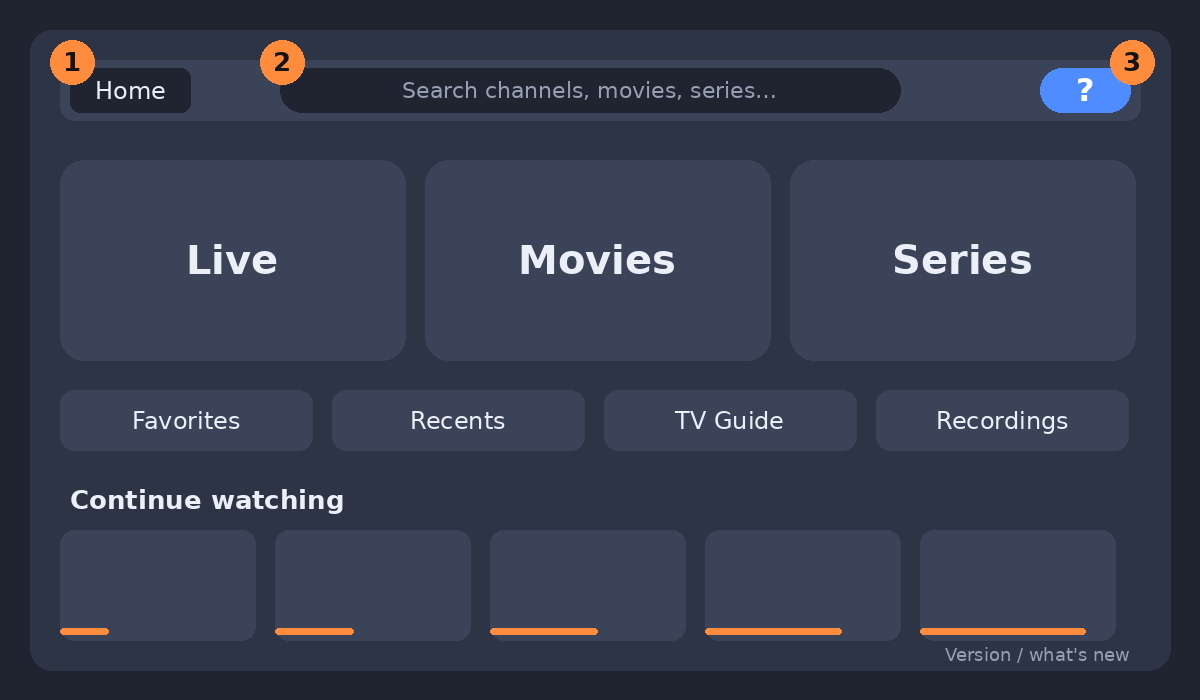
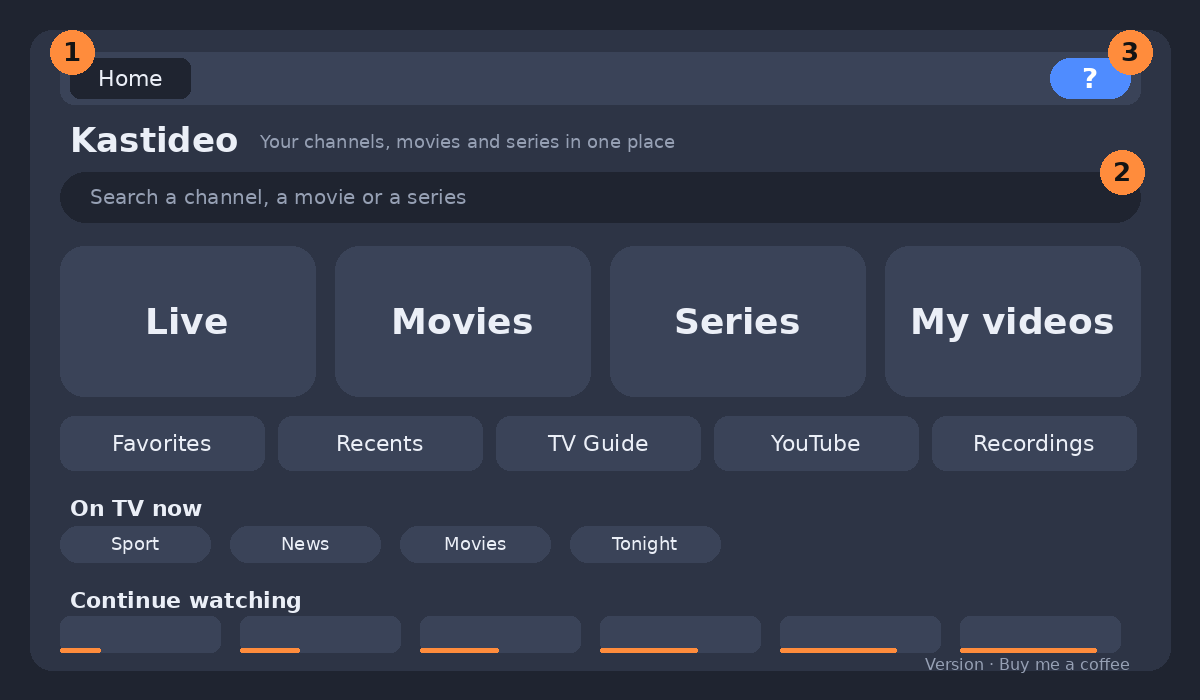
1.9.1 - Aide : l'écran d'accueil est décrit tel qu'il est livré (Mac, Windows, Linux, Android), nouveaux schémas

diff --git a/desktop/lib/core/media_servers.dart b/desktop/lib/core/media_servers.dart
@@ -12,7 +12,7 @@ enum PlaybackEvent { start, progress, pause, stop }
 /// Identité de Kastideo auprès des serveurs (même appareil d'un lancement à l'autre).
 class KastideoDevice {
   KastideoDevice._();
-  static String version = '1.9.0';
+  static String version = '1.9.1';
 
   /// Nom de l'ordinateur, réduit aux caractères ASCII : un accent ou une apostrophe typographique dans un en-tête HTTP
   /// fait répondre « 400 Bad Request » à certains serveurs.

diff --git a/desktop/assets/help/aide-fr.md b/desktop/assets/help/aide-fr.md
@@ -4,11 +4,21 @@
 
 Kastideo réunit en une seule interface vos **chaînes en direct, films et séries IPTV**, vos **vidéos personnelles** (disque, clé USB, NAS, Jellyfin, Emby, Plex) et **YouTube**. Kastideo ne fournit **aucun contenu** : vous ajoutez vos propres sources.
 
+<!--mac-->
 ![L'écran d'accueil](img:home)
 
 1. Retour à l'accueil, de n'importe où.
 2. Recherche unique dans les chaînes, films et séries.
 3. Bouton **?** : l'aide, ouverte à la page de l'écran où vous êtes.
+<!--/mac-->
+<!--pc-->
+![L'écran d'accueil](img:homepc)
+
+1. Bouton **?** : l'aide, ouverte à la page de l'écran où vous êtes.
+2. **Journal de lecture** : l'outil de diagnostic.
+3. **Réglages** : sources, apparence, enregistrements…
+4. Recherche unique dans les chaînes, films et séries, puis les pavés et accès rapides ([détail de l'accueil](help:accueil)).
+<!--/pc-->
 
 ### Démarrage rapide
 
@@ -212,21 +222,40 @@ Réglages > **Sources** : **modifier** une source (bouton crayon : nom, serveur,
 
 ## L'écran d'accueil {#accueil}
 
+<!--mac-->
 ![L'écran d'accueil](img:home)
 
-<!--mac-->
-Kastideo s'ouvre sur l'**accueil** : trois grands pavés **Direct**, **Films** et **Séries**, puis des boutons plus petits vers les **Favoris**, les **Récents**, le **Guide TV** et les **Enregistrements**.
+Kastideo s'ouvre sur l'**accueil**, de haut en bas :
 
-- Le champ de **recherche** en haut cherche d'un coup dans les chaînes, les films et les séries ; un clic sur un résultat l'ouvre.
-- La rangée **Reprendre la lecture** liste les films et épisodes entamés ; un clic reprend là où vous vous étiez arrêté.
-- Si une lecture est en cours, un bandeau permet d'y **retourner** ou de l'**arrêter**.
-- Pour revenir à l'accueil à tout moment : bouton **Accueil** (maison) en haut à gauche de la barre d'outils, **⌘0**, ligne **Accueil** de la barre latérale, ou touche **H** en interface TV.
+- le **champ de recherche**, qui cherche d'un coup dans les chaînes, les films et les séries ; un clic sur un résultat l'ouvre ;
+- les grands pavés **Direct**, **Films** et **Séries**, et **Mes vidéos** dès qu'une source [Dossiers, Jellyfin, Emby ou Plex](help:mes-videos) existe ; chaque pavé indique le nombre de chaînes, films, séries ou vidéos ;
+- les boutons **Favoris**, **Récents**, **Guide TV**, **YouTube** et **Enregistrements** (un badge indique le nombre d'éléments, ou les enregistrements et téléchargements en attente) ;
+- la rangée **À la télé maintenant** : pastilles par thème (Sport, Info, Films…) et **Ce soir**, qui ouvrent le [direct par thème](help:direct-theme) ;
+- la rangée **Reprendre la lecture** : films et épisodes entamés, un clic reprend là où vous vous étiez arrêté ;
+- si une lecture est en cours, un bandeau **En cours de lecture** permet d'y **retourner** ou de l'**arrêter**.
 
-Le **numéro de version** de Kastideo est affiché discrètement en bas à droite de l'accueil ; un clic ouvre les nouveautés de la version.
+Pour revenir à l'accueil à tout moment : bouton **Accueil** (maison) en haut à gauche de la barre d'outils, **⌘0**, ligne **Accueil** de la barre latérale, ou touche **H** en interface TV.
+
+Le **numéro de version** est affiché discrètement en bas à droite, avec le bouton **?** et le bouton **Offrir un café** ; un clic sur la version ouvre les nouveautés.
 <!--/mac-->
-
 <!--pc-->
-Recherche globale (chaînes, films, séries), pavés **Direct**, **Films** et **Séries**, accès rapides **Favoris**, **Récents**, **Guide TV**, **MultiVue** et **Enregistrements**, rangée **Reprendre la lecture**.
+![L'écran d'accueil](img:homepc)
+
+Kastideo s'ouvre sur l'**accueil**, de haut en bas :
+
+- l'**en-tête** : logo, nom et, à droite, trois boutons : **Aide** (**F1**), **Journal de lecture** et **Réglages** (**Ctrl+,**) ; un petit cercle tourne pendant l'actualisation des sources ;
+- le **champ de recherche**, qui cherche d'un coup dans les chaînes, les films et les séries ; un clic sur un résultat l'ouvre ;
+- les grands pavés **Direct**, **Films** et **Séries**, et **Mes vidéos** dès qu'une source [Dossiers, Jellyfin, Emby ou Plex](help:mes-videos) existe ; chaque pavé indique le nombre de chaînes, films, séries ou vidéos ;
+- les boutons **Favoris**, **Récents**, **Guide TV**, **MultiVue**, **YouTube** et **Enregistrements** (un badge indique le nombre d'éléments, de chaînes dans la MultiVue, ou d'enregistrements et téléchargements en attente) ;
+- la rangée **Reprendre la lecture** : films et épisodes entamés, un clic reprend là où vous vous étiez arrêté ;
+- si une lecture est en cours, un bandeau **En cours de lecture** permet d'y **retourner** ou de l'**arrêter** ;
+- si aucune source n'est ajoutée, une carte **Aucune source** propose **Ajouter une source**.
+
+En bas à droite : le bouton **Offrir un café** (masquable dans Réglages > À propos) et le numéro de version.
+
+Pour revenir à l'accueil à tout moment : ligne **Accueil** de la barre latérale, **Ctrl+0**, ou touche **H** en interface TV.
+
+**Sur téléphone et tablette Android**, l'accueil s'adapte à la largeur de l'écran : en dessous d'environ 720 px (téléphone, ou tablette en portrait), les quatre pavés passent sur **deux colonnes** et l'en-tête se réduit. **Sur Android TV**, les boutons se choisissent à la télécommande (liseré visible) et **OK** ouvre.
 <!--/pc-->
 
 ## Mes vidéos {#mes-videos}

diff --git a/docs/help/aide-fr.md b/docs/help/aide-fr.md
@@ -4,11 +4,21 @@
 
 Kastideo réunit en une seule interface vos **chaînes en direct, films et séries IPTV**, vos **vidéos personnelles** (disque, clé USB, NAS, Jellyfin, Emby, Plex) et **YouTube**. Kastideo ne fournit **aucun contenu** : vous ajoutez vos propres sources.
 
+<!--mac-->
 ![L'écran d'accueil](img:home)
 
 1. Retour à l'accueil, de n'importe où.
 2. Recherche unique dans les chaînes, films et séries.
 3. Bouton **?** : l'aide, ouverte à la page de l'écran où vous êtes.
+<!--/mac-->
+<!--pc-->
+![L'écran d'accueil](img:homepc)
+
+1. Bouton **?** : l'aide, ouverte à la page de l'écran où vous êtes.
+2. **Journal de lecture** : l'outil de diagnostic.
+3. **Réglages** : sources, apparence, enregistrements…
+4. Recherche unique dans les chaînes, films et séries, puis les pavés et accès rapides ([détail de l'accueil](help:accueil)).
+<!--/pc-->
 
 ### Démarrage rapide
 
@@ -212,21 +222,40 @@ Réglages > **Sources** : **modifier** une source (bouton crayon : nom, serveur,
 
 ## L'écran d'accueil {#accueil}
 
+<!--mac-->
 ![L'écran d'accueil](img:home)
 
-<!--mac-->
-Kastideo s'ouvre sur l'**accueil** : trois grands pavés **Direct**, **Films** et **Séries**, puis des boutons plus petits vers les **Favoris**, les **Récents**, le **Guide TV** et les **Enregistrements**.
+Kastideo s'ouvre sur l'**accueil**, de haut en bas :
 
-- Le champ de **recherche** en haut cherche d'un coup dans les chaînes, les films et les séries ; un clic sur un résultat l'ouvre.
-- La rangée **Reprendre la lecture** liste les films et épisodes entamés ; un clic reprend là où vous vous étiez arrêté.
-- Si une lecture est en cours, un bandeau permet d'y **retourner** ou de l'**arrêter**.
-- Pour revenir à l'accueil à tout moment : bouton **Accueil** (maison) en haut à gauche de la barre d'outils, **⌘0**, ligne **Accueil** de la barre latérale, ou touche **H** en interface TV.
+- le **champ de recherche**, qui cherche d'un coup dans les chaînes, les films et les séries ; un clic sur un résultat l'ouvre ;
+- les grands pavés **Direct**, **Films** et **Séries**, et **Mes vidéos** dès qu'une source [Dossiers, Jellyfin, Emby ou Plex](help:mes-videos) existe ; chaque pavé indique le nombre de chaînes, films, séries ou vidéos ;
+- les boutons **Favoris**, **Récents**, **Guide TV**, **YouTube** et **Enregistrements** (un badge indique le nombre d'éléments, ou les enregistrements et téléchargements en attente) ;
+- la rangée **À la télé maintenant** : pastilles par thème (Sport, Info, Films…) et **Ce soir**, qui ouvrent le [direct par thème](help:direct-theme) ;
+- la rangée **Reprendre la lecture** : films et épisodes entamés, un clic reprend là où vous vous étiez arrêté ;
+- si une lecture est en cours, un bandeau **En cours de lecture** permet d'y **retourner** ou de l'**arrêter**.
 
-Le **numéro de version** de Kastideo est affiché discrètement en bas à droite de l'accueil ; un clic ouvre les nouveautés de la version.
+Pour revenir à l'accueil à tout moment : bouton **Accueil** (maison) en haut à gauche de la barre d'outils, **⌘0**, ligne **Accueil** de la barre latérale, ou touche **H** en interface TV.
+
+Le **numéro de version** est affiché discrètement en bas à droite, avec le bouton **?** et le bouton **Offrir un café** ; un clic sur la version ouvre les nouveautés.
 <!--/mac-->
-
 <!--pc-->
-Recherche globale (chaînes, films, séries), pavés **Direct**, **Films** et **Séries**, accès rapides **Favoris**, **Récents**, **Guide TV**, **MultiVue** et **Enregistrements**, rangée **Reprendre la lecture**.
+![L'écran d'accueil](img:homepc)
+
+Kastideo s'ouvre sur l'**accueil**, de haut en bas :
+
+- l'**en-tête** : logo, nom et, à droite, trois boutons : **Aide** (**F1**), **Journal de lecture** et **Réglages** (**Ctrl+,**) ; un petit cercle tourne pendant l'actualisation des sources ;
+- le **champ de recherche**, qui cherche d'un coup dans les chaînes, les films et les séries ; un clic sur un résultat l'ouvre ;
+- les grands pavés **Direct**, **Films** et **Séries**, et **Mes vidéos** dès qu'une source [Dossiers, Jellyfin, Emby ou Plex](help:mes-videos) existe ; chaque pavé indique le nombre de chaînes, films, séries ou vidéos ;
+- les boutons **Favoris**, **Récents**, **Guide TV**, **MultiVue**, **YouTube** et **Enregistrements** (un badge indique le nombre d'éléments, de chaînes dans la MultiVue, ou d'enregistrements et téléchargements en attente) ;
+- la rangée **Reprendre la lecture** : films et épisodes entamés, un clic reprend là où vous vous étiez arrêté ;
+- si une lecture est en cours, un bandeau **En cours de lecture** permet d'y **retourner** ou de l'**arrêter** ;
+- si aucune source n'est ajoutée, une carte **Aucune source** propose **Ajouter une source**.
+
+En bas à droite : le bouton **Offrir un café** (masquable dans Réglages > À propos) et le numéro de version.
+
+Pour revenir à l'accueil à tout moment : ligne **Accueil** de la barre latérale, **Ctrl+0**, ou touche **H** en interface TV.
+
+**Sur téléphone et tablette Android**, l'accueil s'adapte à la largeur de l'écran : en dessous d'environ 720 px (téléphone, ou tablette en portrait), les quatre pavés passent sur **deux colonnes** et l'en-tête se réduit. **Sur Android TV**, les boutons se choisissent à la télécommande (liseré visible) et **OK** ouvre.
 <!--/pc-->
 
 ## Mes vidéos {#mes-videos}

diff --git a/desktop/assets/help/aide-en.md b/desktop/assets/help/aide-en.md
@@ -4,11 +4,21 @@
 
 Kastideo brings together your **live channels, IPTV movies and series**, your **personal videos** (disk, USB drive, NAS, Jellyfin, Emby, Plex) and **YouTube** in a single interface. Kastideo provides **no content** of its own: you add your own sources.
 
+<!--mac-->
 ![The Home screen](img:home)
 
 1. Back to Home, from anywhere.
 2. One search for channels, movies and series.
 3. The **?** button: help, opened on the page that matches the screen you are on.
+<!--/mac-->
+<!--pc-->
+![The Home screen](img:homepc)
+
+1. The **?** button: help, opened on the page that matches the screen you are on.
+2. **Playback log**: the diagnostic tool.
+3. **Settings**: sources, appearance, recordings…
+4. One search for channels, movies and series, then the tiles and shortcuts ([Home screen details](help:accueil)).
+<!--/pc-->
 
 ### Quick start
 
@@ -212,21 +222,40 @@ Settings > **Sources**: **edit** a source (pencil button: name, server, username
 
 ## The Home screen {#accueil}
 
+<!--mac-->
 ![The Home screen](img:home)
 
-<!--mac-->
-Kastideo opens on the **Home** screen: three large tiles, **Live**, **Movies** and **Series**, then smaller buttons for **Favorites**, **Recents**, the **TV Guide** and **Recordings**.
+Kastideo opens on the **Home** screen, from top to bottom:
 
-- The **search** field at the top searches channels, movies and series at once; click a result to open it.
-- The **Continue Watching** row lists the movies and episodes you have started; click one to resume where you left off.
-- If something is playing, a banner lets you **go back to it** or **stop** it.
-- To return to Home at any time: the **Home** button (house) at the top left of the toolbar, **⌘0**, the **Home** row in the sidebar, or the **H** key in the TV interface.
+- the **search field**, which searches channels, movies and series at once; clicking a result opens it;
+- the large **Live**, **Movies** and **Series** tiles, and **My videos** as soon as a [Folders, Jellyfin, Emby or Plex](help:mes-videos) source exists; each tile shows the number of channels, movies, series or videos;
+- the **Favorites**, **Recents**, **TV Guide**, **YouTube** and **Recordings** buttons (a badge shows the number of items, or pending recordings and downloads);
+- the **On TV now** row: chips by theme (Sport, News, Movies…) and **Tonight**, which open [live by theme](help:direct-theme);
+- the **Continue watching** row: movies and episodes you started, one click resumes where you stopped;
+- if something is playing, a **Now playing** banner lets you **go back** to it or **stop** it.
 
-Kastideo's **version number** is shown discreetly at the bottom right of the Home screen; clicking it opens the release notes.
+To return Home at any time: the **Home** (house) button at the top left of the toolbar, **⌘0**, the **Home** row of the sidebar, or the **H** key in the TV interface.
+
+The **version number** is shown discreetly at the bottom right, next to the **?** and **Buy me a coffee** buttons; clicking the version opens what's new.
 <!--/mac-->
-
 <!--pc-->
-Global search (channels, movies, series), **Live**, **Movies** and **Series** tiles, quick access to **Favorites**, **Recents**, **TV Guide**, **MultiView** and **Recordings**, and the **Continue watching** row.
+![The Home screen](img:homepc)
+
+Kastideo opens on the **Home** screen, from top to bottom:
+
+- the **header**: logo, name and, on the right, three buttons: **Help** (**F1**), **Playback log** and **Settings** (**Ctrl+,**); a small spinner turns while sources refresh;
+- the **search field**, which searches channels, movies and series at once; clicking a result opens it;
+- the large **Live**, **Movies** and **Series** tiles, and **My videos** as soon as a [Folders, Jellyfin, Emby or Plex](help:mes-videos) source exists; each tile shows the number of channels, movies, series or videos;
+- the **Favorites**, **Recents**, **TV Guide**, **MultiView**, **YouTube** and **Recordings** buttons (a badge shows the number of items, of channels in MultiView, or pending recordings and downloads);
+- the **Continue watching** row: movies and episodes you started, one click resumes where you stopped;
+- if something is playing, a **Now playing** banner lets you **go back** to it or **stop** it;
+- if no source has been added, a **No source** card offers **Add a source**.
+
+At the bottom right: the **Buy me a coffee** button (can be hidden in Settings > About) and the version number.
+
+To return Home at any time: the **Home** row of the sidebar, **Ctrl+0**, or the **H** key in the TV interface.
+
+**On Android phones and tablets**, Home adapts to the screen width: below about 720 px (phone, or tablet in portrait), the four tiles go to **two columns** and the header shrinks. **On Android TV**, buttons are chosen with the remote (visible outline) and **OK** opens.
 <!--/pc-->
 
 ## My videos {#mes-videos}

diff --git a/docs/help/aide-en.md b/docs/help/aide-en.md
@@ -4,11 +4,21 @@
 
 Kastideo brings together your **live channels, IPTV movies and series**, your **personal videos** (disk, USB drive, NAS, Jellyfin, Emby, Plex) and **YouTube** in a single interface. Kastideo provides **no content** of its own: you add your own sources.
 
+<!--mac-->
 ![The Home screen](img:home)
 
 1. Back to Home, from anywhere.
 2. One search for channels, movies and series.
 3. The **?** button: help, opened on the page that matches the screen you are on.
+<!--/mac-->
+<!--pc-->
+![The Home screen](img:homepc)
+
+1. The **?** button: help, opened on the page that matches the screen you are on.
+2. **Playback log**: the diagnostic tool.
+3. **Settings**: sources, appearance, recordings…
+4. One search for channels, movies and series, then the tiles and shortcuts ([Home screen details](help:accueil)).
+<!--/pc-->
 
 ### Quick start
 
@@ -212,21 +222,40 @@ Settings > **Sources**: **edit** a source (pencil button: name, server, username
 
 ## The Home screen {#accueil}
 
+<!--mac-->
 ![The Home screen](img:home)
 
-<!--mac-->
-Kastideo opens on the **Home** screen: three large tiles, **Live**, **Movies** and **Series**, then smaller buttons for **Favorites**, **Recents**, the **TV Guide** and **Recordings**.
+Kastideo opens on the **Home** screen, from top to bottom:
 
-- The **search** field at the top searches channels, movies and series at once; click a result to open it.
-- The **Continue Watching** row lists the movies and episodes you have started; click one to resume where you left off.
-- If something is playing, a banner lets you **go back to it** or **stop** it.
-- To return to Home at any time: the **Home** button (house) at the top left of the toolbar, **⌘0**, the **Home** row in the sidebar, or the **H** key in the TV interface.
+- the **search field**, which searches channels, movies and series at once; clicking a result opens it;
+- the large **Live**, **Movies** and **Series** tiles, and **My videos** as soon as a [Folders, Jellyfin, Emby or Plex](help:mes-videos) source exists; each tile shows the number of channels, movies, series or videos;
+- the **Favorites**, **Recents**, **TV Guide**, **YouTube** and **Recordings** buttons (a badge shows the number of items, or pending recordings and downloads);
+- the **On TV now** row: chips by theme (Sport, News, Movies…) and **Tonight**, which open [live by theme](help:direct-theme);
+- the **Continue watching** row: movies and episodes you started, one click resumes where you stopped;
+- if something is playing, a **Now playing** banner lets you **go back** to it or **stop** it.
 
-Kastideo's **version number** is shown discreetly at the bottom right of the Home screen; clicking it opens the release notes.
+To return Home at any time: the **Home** (house) button at the top left of the toolbar, **⌘0**, the **Home** row of the sidebar, or the **H** key in the TV interface.
+
+The **version number** is shown discreetly at the bottom right, next to the **?** and **Buy me a coffee** buttons; clicking the version opens what's new.
 <!--/mac-->
-
 <!--pc-->
-Global search (channels, movies, series), **Live**, **Movies** and **Series** tiles, quick access to **Favorites**, **Recents**, **TV Guide**, **MultiView** and **Recordings**, and the **Continue watching** row.
+![The Home screen](img:homepc)
+
+Kastideo opens on the **Home** screen, from top to bottom:
+
+- the **header**: logo, name and, on the right, three buttons: **Help** (**F1**), **Playback log** and **Settings** (**Ctrl+,**); a small spinner turns while sources refresh;
+- the **search field**, which searches channels, movies and series at once; clicking a result opens it;
+- the large **Live**, **Movies** and **Series** tiles, and **My videos** as soon as a [Folders, Jellyfin, Emby or Plex](help:mes-videos) source exists; each tile shows the number of channels, movies, series or videos;
+- the **Favorites**, **Recents**, **TV Guide**, **MultiView**, **YouTube** and **Recordings** buttons (a badge shows the number of items, of channels in MultiView, or pending recordings and downloads);
+- the **Continue watching** row: movies and episodes you started, one click resumes where you stopped;
+- if something is playing, a **Now playing** banner lets you **go back** to it or **stop** it;
+- if no source has been added, a **No source** card offers **Add a source**.
+
+At the bottom right: the **Buy me a coffee** button (can be hidden in Settings > About) and the version number.
+
+To return Home at any time: the **Home** row of the sidebar, **Ctrl+0**, or the **H** key in the TV interface.
+
+**On Android phones and tablets**, Home adapts to the screen width: below about 720 px (phone, or tablet in portrait), the four tiles go to **two columns** and the header shrinks. **On Android TV**, buttons are chosen with the remote (visible outline) and **OK** opens.
 <!--/pc-->
 
 ## My videos {#mes-videos}

diff --git a/desktop/CHANGELOG.md b/desktop/CHANGELOG.md
@@ -2,6 +2,14 @@
 
 Préversions publiées sur GitHub avec les tags `vX.Y.Z-desktopN` (le numéro X.Y.Z est celui de la version Mac de référence).
 
+## [1.9.1-android1] - 2026-11-01
+
+- **Aide** : la page « L'écran d'accueil » est réécrite pour correspondre à l'écran livré (en-tête avec Aide, Journal et Réglages, pavés dont Mes vidéos, accès rapides dont MultiVue et YouTube, bandeau de lecture, accueil à deux colonnes sur téléphone) avec un nouveau schéma ; la page « Bienvenue » est alignée.
+
+## [1.9.1-desktop1] - 2026-11-01
+
+- **Aide** : la page « L'écran d'accueil » est réécrite pour correspondre à l'écran livré (en-tête avec Aide, Journal et Réglages, pavés dont Mes vidéos, accès rapides dont MultiVue et YouTube, bandeau de lecture, accueil à deux colonnes sur téléphone) avec un nouveau schéma ; la page « Bienvenue » est alignée.
+
 ## [1.9.0-android3] - 2026-11-01
 
 - **Mode Arranger** (Android, Windows, Linux) : dans une catégorie, le bouton ↑↓ à droite du titre permet de changer l'ordre des chaînes, films ou séries avec une grande poignée ⋮⋮ (la liste défile librement ailleurs, au doigt comme à la souris). Menu ⋮ : tout en haut / tout en bas, **déplacer vers une autre catégorie ou une liste personnelle**, remettre dans la catégorie d'origine. Tri A → Z, par numéro, retour à l'ordre du fournisseur.

diff --git a/CHANGELOG.md b/CHANGELOG.md
@@ -3,6 +3,10 @@
 Toutes les évolutions notables de Kastideo sont consignées ici.
 Les notes de chaque version sont reprises automatiquement dans la GitHub Release correspondante.
 
+## [1.9.1] - 2026-11-01
+
+**Aide : l'écran d'accueil est décrit tel qu'il est.** La page « L'écran d'accueil » est réécrite (champ de recherche, pavés dont Mes vidéos, accès rapides, « À la télé maintenant », « Reprendre la lecture », bandeau de lecture, version et bouton Offrir un café) avec un schéma mis à jour. L'application elle-même ne change pas.
+
 ## [1.9.0] - 2026-10-31
 
 **Kastideo arrive sur Android et Android TV.** Cette version Mac ne change pas l'application : elle ajoute la page d'aide « Kastideo sur Android et Android TV » (choix du fichier, installation sans désactiver la sécurité d'Android, télécommande, différences avec l'ordinateur). Les APK se téléchargent sur la page des versions GitHub (tags `-android`).
